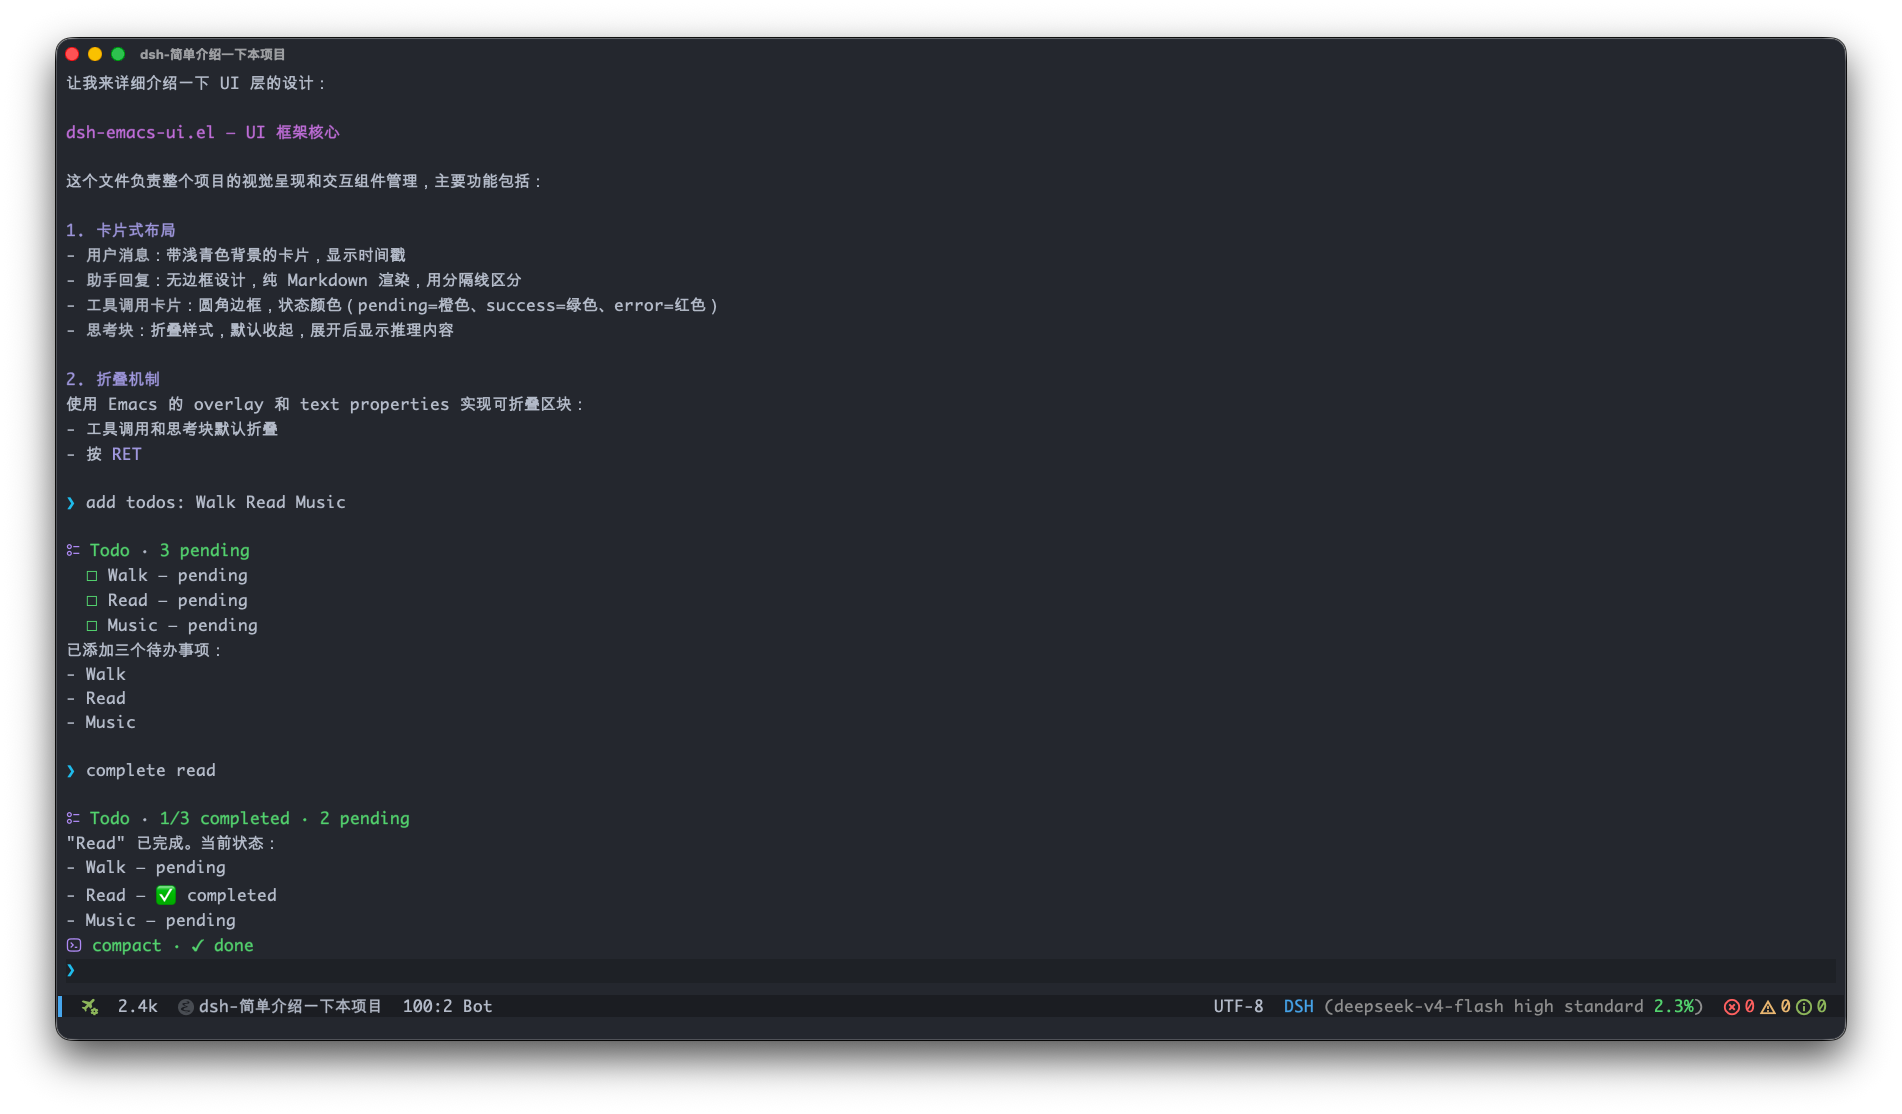
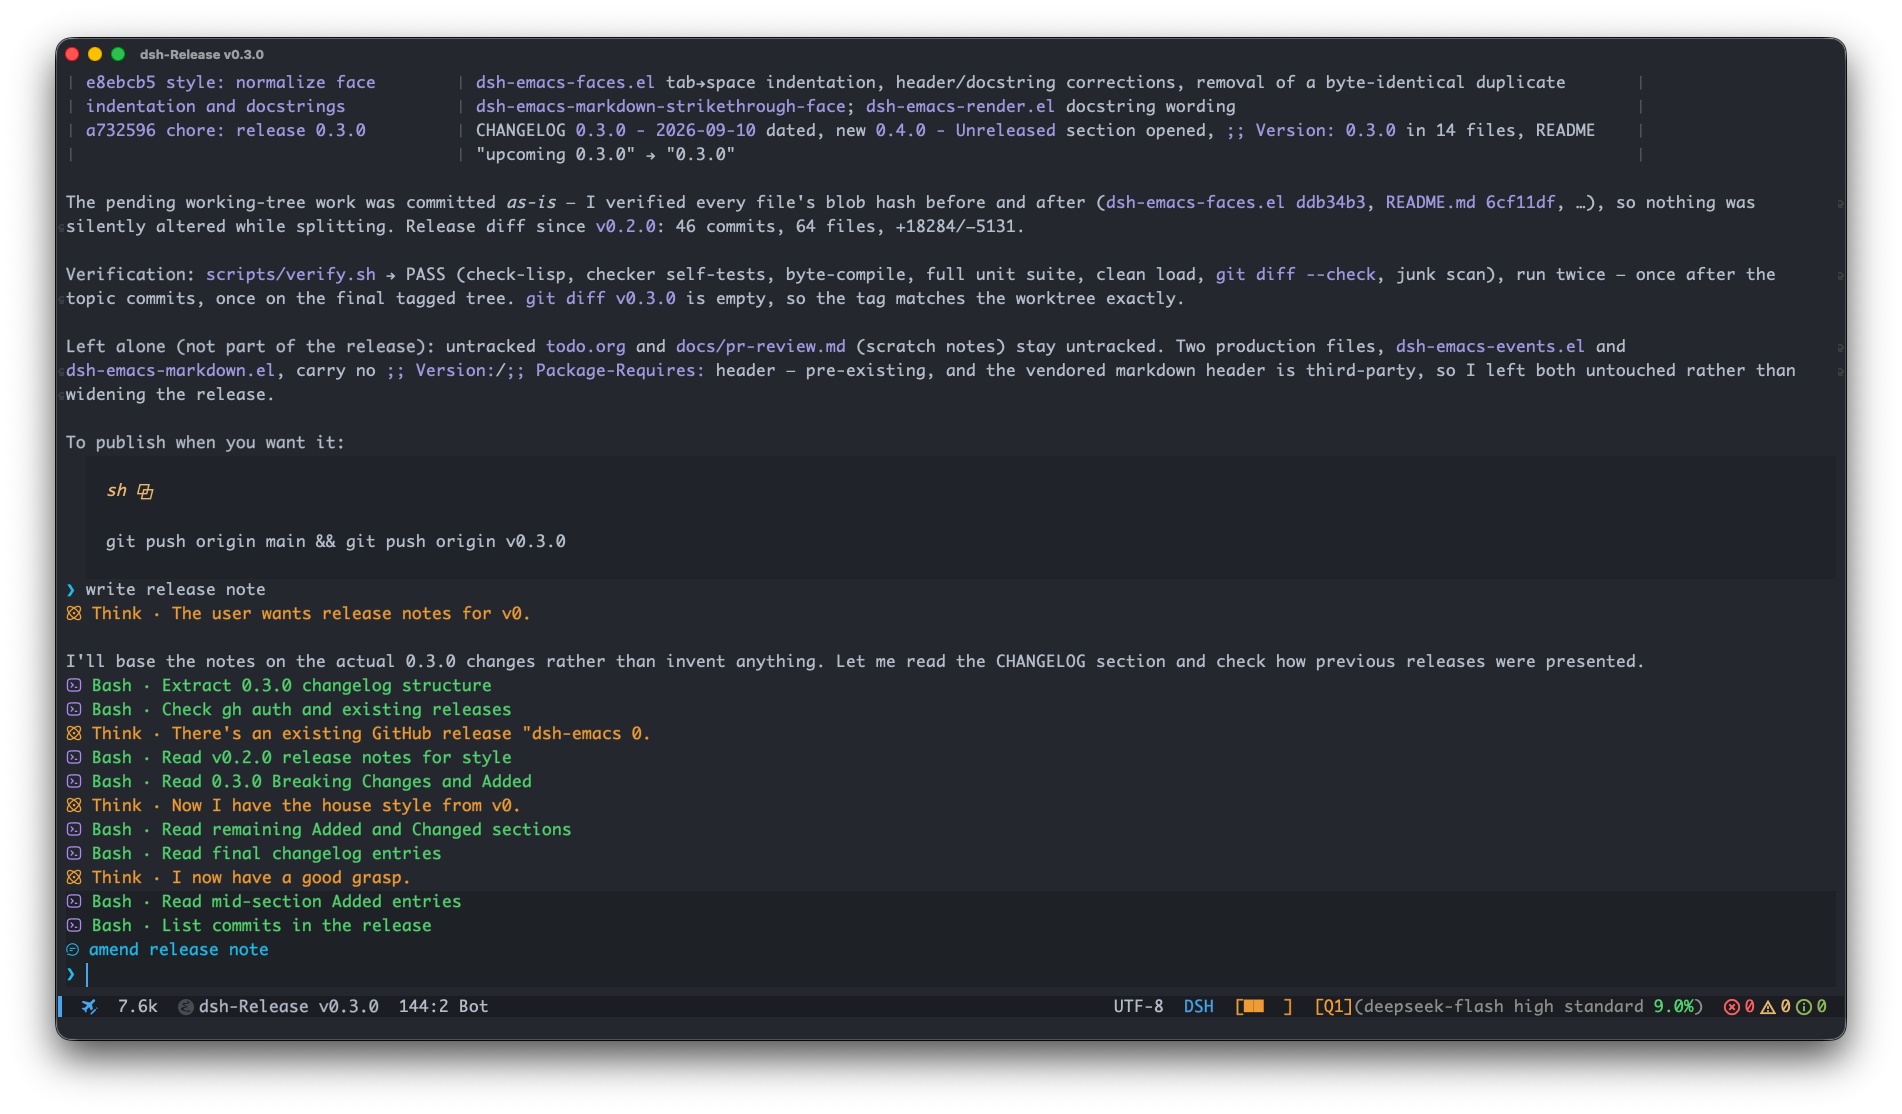
chore: release 0.3.0

diff --git a/README.md b/README.md
@@ -7,8 +7,8 @@ built-ins (Emacs 27.1+) with no third-party dependencies.
 
 ![Chat buffer with streaming replies and tool calls](assets/chat.png)
 
-> The upcoming **0.3.0** release targets the **dsh 0.1.2** wire protocol
-> (server **0.1.2-rc.1 or newer**).
+> **0.3.0** targets the **dsh 0.1.2** wire protocol (server **0.1.2-rc.1 or
+> newer**).
 
 ## Quick start
 

diff --git a/CHANGELOG.md b/CHANGELOG.md
@@ -6,7 +6,9 @@ All notable changes to this project are documented here. Format follows
 sections carry the planned next version (pre-1.0: `fix` → patch, features →
 minor) and stay undated until the release is cut.
 
-## 0.3.0 - Unreleased
+## 0.4.0 - Unreleased
+
+## 0.3.0 - 2026-09-10
 
 ### Breaking Changes
 
